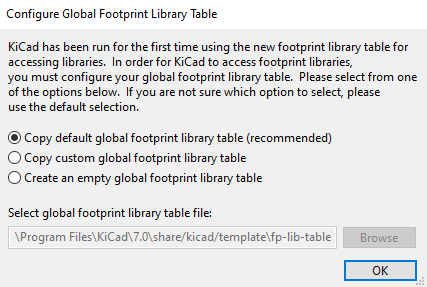
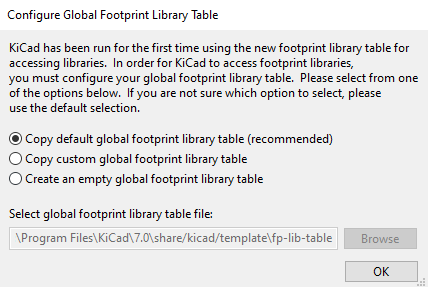
Add images to tutorial

diff --git a/README.md b/README.md
@@ -54,7 +54,7 @@ ToDo is on the README to keep things easier to see at first glance. GitHub issue
 ### Initial Setup of PiElectrical repo on your computer
 
 1. Copy the URL for pioneers/PiElectrical to your clipboard: (Or here: https://github.com/pioneers/PiElectrical.git)
-2. In Terminal (Mac, GNU/Linux) or Git Bash (windows), navigate to your working directory (that is, the directory that you want to keep PiElectrical in.)
+2. In Terminal (Mac, GNU/Linux) or Git Bash (windows), navigate to your working directory (the directory that you want to keep PiElectrical in.)
 3. Clone PiElectrical by running this command: `git clone https://github.com/pioneers/PiElectrical.git`
 
 ### Installation of KiCad on your computer
@@ -85,14 +85,26 @@ ToDo is on the README to keep things easier to see at first glance. GitHub issue
     <img src="Images/KiCad_Setup/symbol_setup3.png">
    </details>
 4. <details>
-    <summary>You should now see the <i>PiE_Symbols</i> in your Symbol Libraries.</summary>
+    <summary>You should now see the <i>PiE_Symbols</i> in your Symbol Libraries. Make sure the "active" box is checked, and click "OK".</summary>
     <img src="Images/KiCad_Setup/symbol_setup4.png">
    </details>
 
 #### Adding Footprints
 1. <details>
     <summary>Go to the <i>Preferences</i> tab, and select <i>Manage Footprint Libraries...</i></summary>
-    <img src="">
+    <img src="Images/KiCad_Setup/footprint_setup1.png">
+   </details>
+2. <details>
+    <summary>If this is your first time using KiCad, it will prompt you to configure the <i>Global Footprint Library</i>. It is highly recommended that you select "Copy default global footprint library table".</summary>
+    <img src="Images/KiCad_Setup/footprint_setup2.png">
+   </details>
+3. <details>
+    <summary>Select the folder icon near the bottom left and navigate to the <i>PiE_Footprints.pretty</i> file in the <i>src</i> folder.</summary>
+    <img src="Images/KiCad_Setup/footprint_setup3.png">
+   </details>
+4. <details>
+    <summary>You should now see the <i>PiE_Footprints</i> in your Footprint Libraries. Make sure the "active" box is checked, and click "OK".</summary>
+    <img src="Images/KiCad_Setup/footprint_setup4.png">
    </details>
 
 [Back to Top](#pielectrical)
